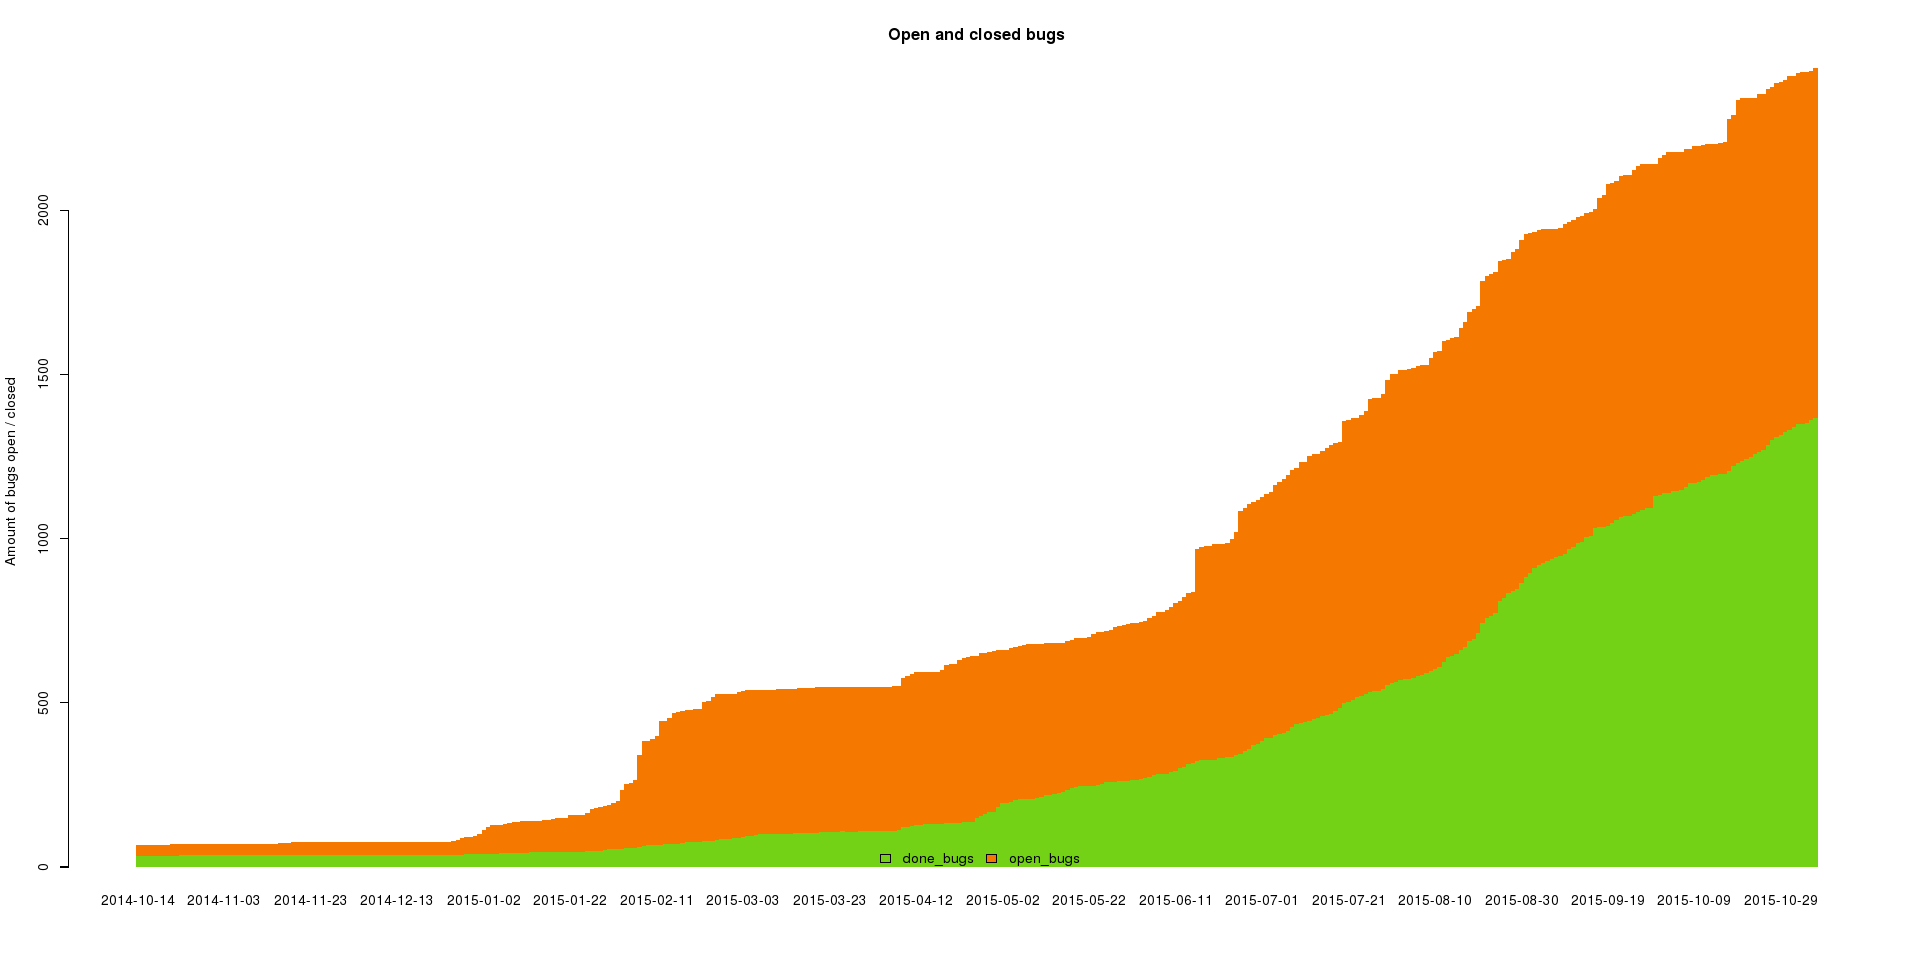
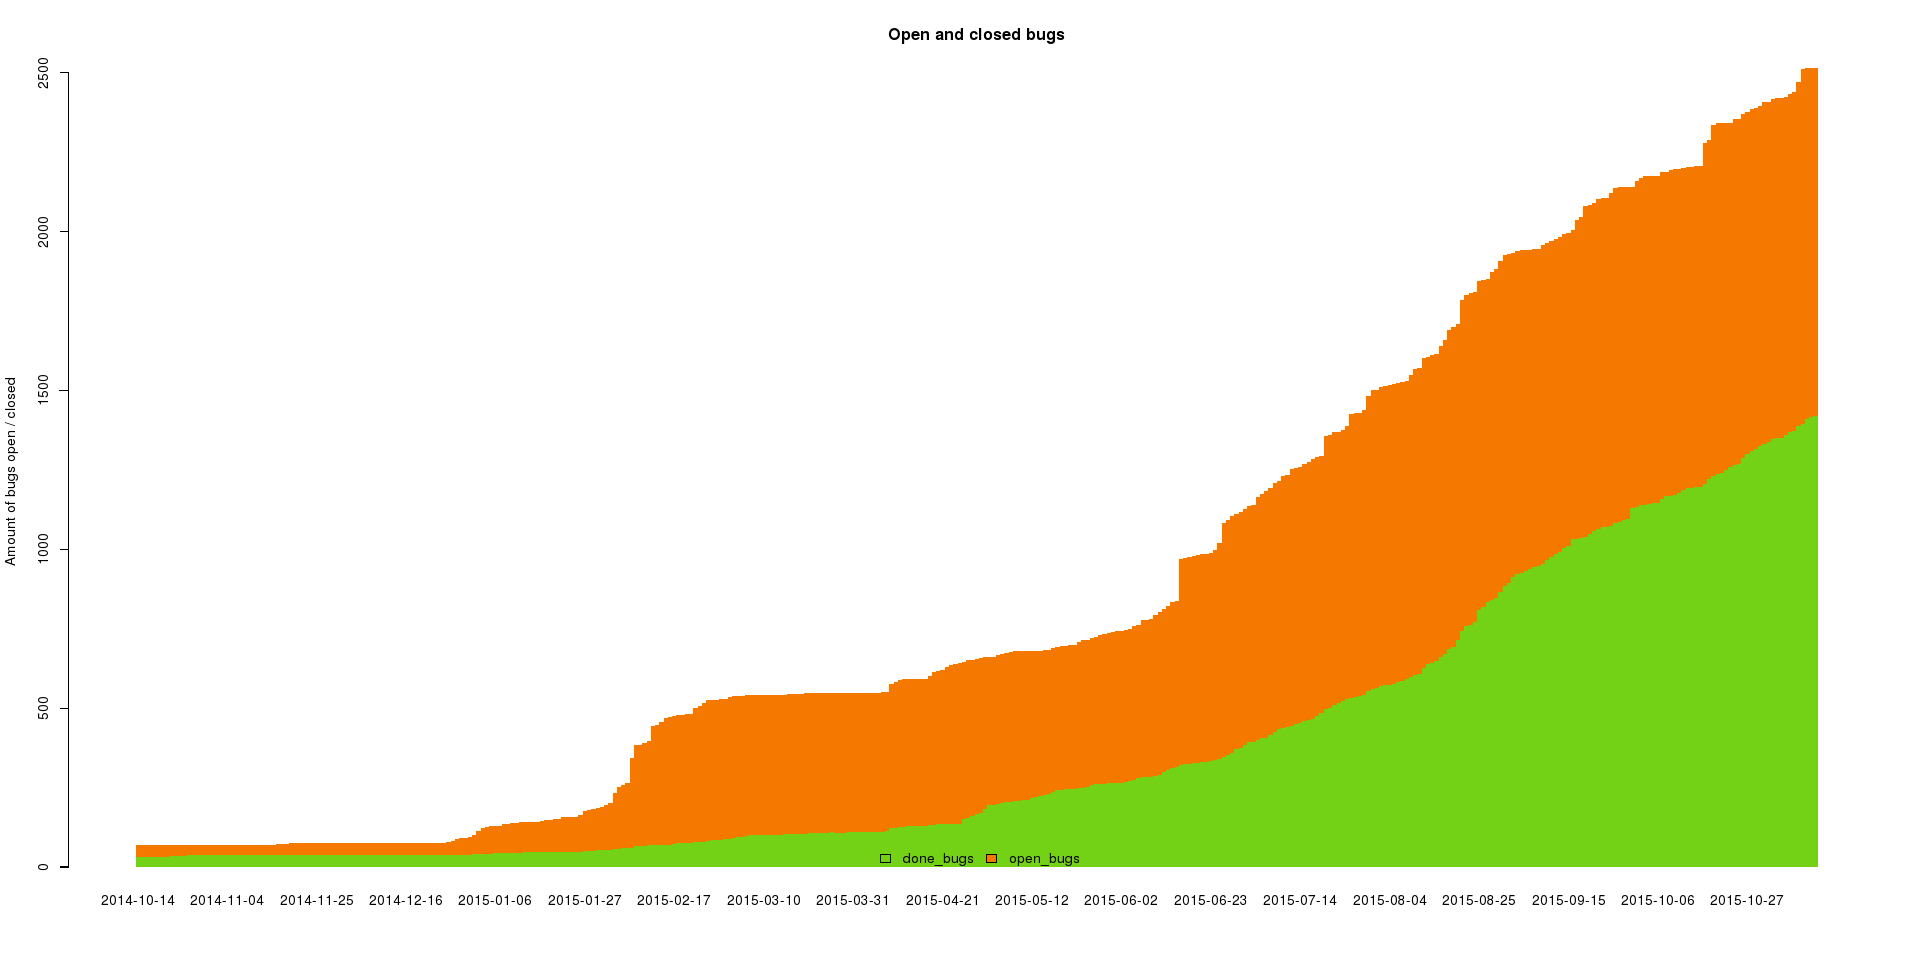
update stats to today

diff --git a/2015-11-13-CCCHH/2015-11-13-CCCHH-Beyond-Reproducible-builds.tex b/2015-11-13-CCCHH/2015-11-13-CCCHH-Beyond-Reproducible-builds.tex
@@ -276,7 +276,7 @@
  \begin{center}
   \includegraphics[height=0.73\paperheight]{images/stats_pkg_state.png}
 
-  \small{19,500 out of 23,079 source packages are reproducible \\
+  \small{19,287 out of 23,132 source packages are reproducible \\
     in our test framework}
   \vfill
  \end{center}
@@ -313,7 +313,7 @@
  \frametitle{Tell the world \& collaborate}
 
  \begin{itemize}
-  \item Recent talks available with subtitles:
+  \item Recent talks (some available with subtitles):
    \begin{itemize}
     \item 2015-08-13: Chaos Communication Camp 2015
     \item 2015-08-20: DebConf15
@@ -383,7 +383,7 @@
  \begin{itemize}
   \item https://reproducible.debian.net/\$src
   \item<2-3> { 165 categorised distinct issues }
-  \item<2-3> { 3,270 packages to be fixed, but only 249 without annotated
+  \item<2-3> { 3,472 packages to be fixed, but only 407 without annotated
   issues }
   \item<3> { 29 different "package sets", eg. \texttt build-essential is only <70\%
   reproducible
